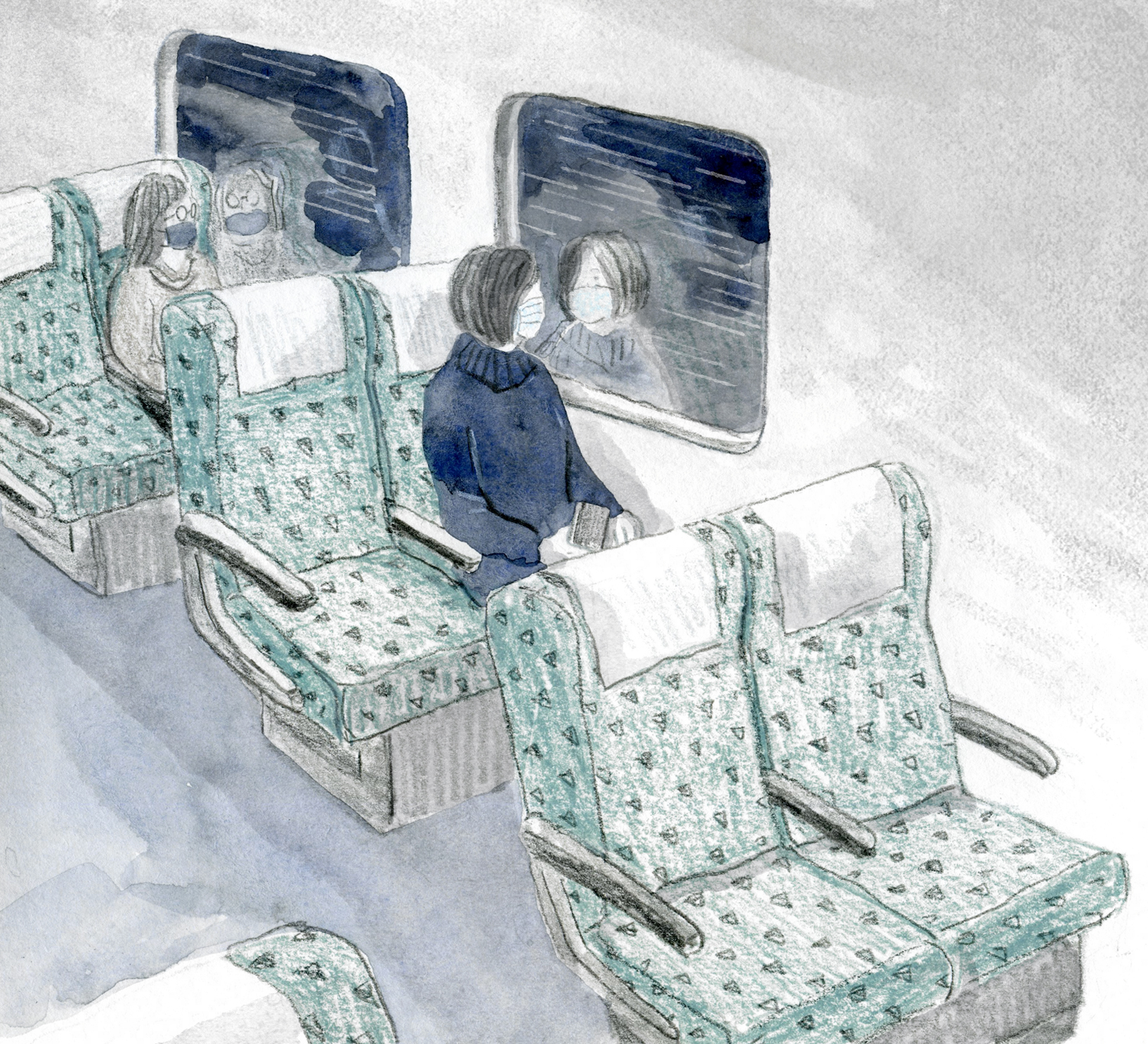
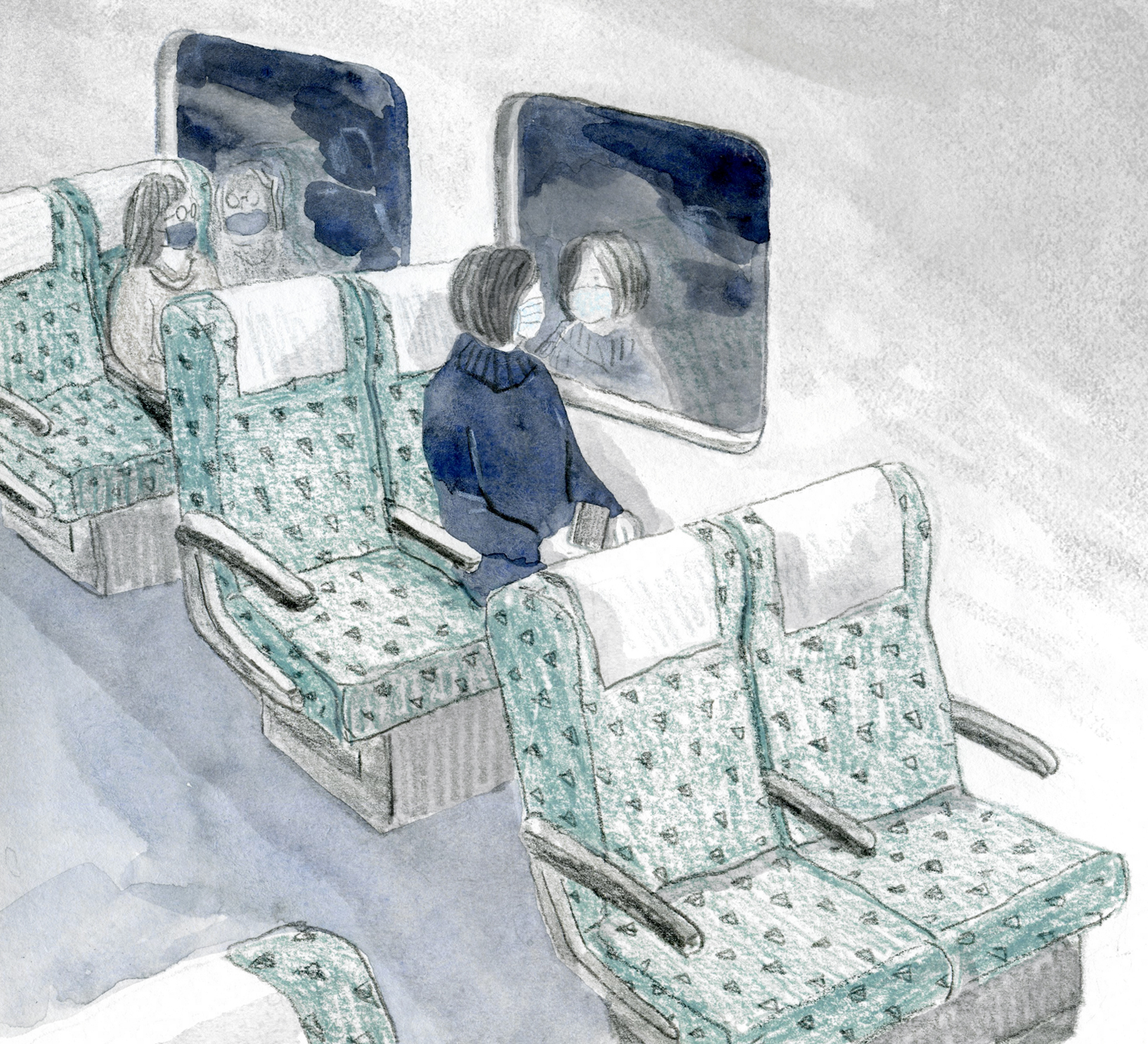
mobile

diff --git a/src/Story/mobile.less b/src/Story/mobile.less
@@ -128,6 +128,51 @@
 				transform: scale(0.82);
 
 				@img: './img/mobile/bg2.jpg';
+
+				@keyframes hightSpeed {
+					0% {
+						opacity: 0;
+					}
+
+					45% {
+						opacity: 0;
+					}
+					50% {
+						opacity: 1;
+					}
+					51% {
+						opacity: 0;
+					}
+
+					60% {
+						opacity: 0;
+					}
+					65% {
+						opacity: 1;
+					}
+					70% {
+						opacity: 0;
+					}
+
+					95% {
+						opacity: 0;
+					}
+					100% {
+						opacity: 1;
+					}
+				}
+
+				.speed {
+					position: absolute;
+					@img: './img/mobile/speed.png';
+					background-image: url(@img);
+					width: image-width(@img);
+					height: image-height(@img);
+					top: 5.4%;
+					left: 14.2%;
+
+					animation: hightSpeed 4s linear infinite;
+				}
 			}
 		}
 	}
@@ -155,6 +200,28 @@
 				transform: scale(0.82);
 
 				@img: './img/mobile/bg1.jpg';
+
+				@keyframes rain {
+					0% {
+						background-position-y: 0px;
+					}
+					100% {
+						background-position-y: 5000px;
+					}
+				}
+
+				.rain {
+					position: absolute;
+					@img: './img/mobile/rain.png';
+					background-image: url(@img);
+					width: image-width(@img);
+					height: image-height(@img);
+
+					right: 2%;
+					top: 0.4%;
+
+					animation: rain 2s steps(5) infinite;
+				}
 			}
 		}
 	}
@@ -198,8 +265,32 @@
 
 				@img: './img/mobile/bg0.jpg';
 
-				& > div {
+				@keyframes tears {
+					0% {
+						opacity: 0;
+						transform: translateY(-30px);
+					}
+					60% {
+						opacity: 1;
+						transform: translateY(0px);
+					}
+					100% {
+						opacity: 0;
+						transform: translateY(10px);
+					}
+				}
+
+				.tears {
 					position: absolute;
+					@img: './img/mobile/tears.png';
+					background-image: url(@img);
+					width: image-width(@img);
+					height: image-height(@img);
+					left: 17%;
+					top: 54.8%;
+					opacity: 0;
+
+					animation: tears 3s ease-out infinite;
 				}
 			}
 		}

diff --git a/src/Story/mobile/animation0.js b/src/Story/mobile/animation0.js
@@ -37,7 +37,7 @@ export default class Animation0 {
 				const dom = page.current;
 				const from = { opacity: 1 };
 				const to = { opacity: 0 };
-				const duration = 2000;
+				const duration = 1000;
 				dom.style.opacity = 1;
 				new Tweener({
 					from,
@@ -57,17 +57,11 @@ export default class Animation0 {
 			},
 			bg: {
 				delay: 0,
-				property: { opacity: 0, left: -200 },
+				property: { opacity: 0, left: -300 },
 				unit: { opacity: '', left: 'px' },
 				init() {
 					this.c = bg.current;
-					this.duration =
-						root.tr.labels.delay +
-						root.tr.labels.fadeOutDelay +
-						4000 +
-						[...labels.current.children]
-							.map((dom) => parseInt(dom.dataset.delay))
-							.reduce((duration, delay) => duration + delay);
+					this.duration = root.totalTime * 1000 + 1000;
 					this.tran();
 				},
 				in() {

diff --git a/src/Story/mobile/page2.js b/src/Story/mobile/page2.js
@@ -11,13 +11,12 @@ const Page2 = (props) => {
 	const animation = useRef();
 	const page = useRef();
 	const bg = useRef();
-	const cloud = useRef();
-	const white = useRef();
+
 	const img = useRef();
 	const labels = useRef();
 
 	useEffect(() => {
-		animation.current = new Animation({ page, bg, cloud, labels, white }, () => {
+		animation.current = new Animation({ page, bg, labels }, () => {
 			setState('page3');
 		});
 
@@ -46,11 +45,9 @@ const Page2 = (props) => {
 
 	return (
 		<div ref={page} className='page page2'>
-			<div ref={white} className='white-color' />
 			<div ref={bg} className='bg'>
 				<div ref={img} className='img'>
-					<div ref={cloud} className='cloud' />
-					<div className='wheel' />
+					<div className='speed' />
 				</div>
 			</div>
 			<div ref={labels} className='labels'>

diff --git a/src/Story/mobile/animation1.js b/src/Story/mobile/animation1.js
@@ -35,7 +35,7 @@ export default class Animation1 {
 				const dom = page.current;
 				const from = { opacity: 1 };
 				const to = { opacity: 0 };
-				const duration = 2000;
+				const duration = 1000;
 				dom.style.opacity = 1;
 				new Tweener({
 					from,
@@ -59,12 +59,7 @@ export default class Animation1 {
 				unit: { opacity: '', left: 'px' },
 				init() {
 					this.c = bg.current;
-					this.duration =
-						root.tr.labels.delay +
-						root.tr.labels.fadeOutDelay +
-						[...labels.current.children]
-							.map((dom) => parseInt(dom.dataset.delay))
-							.reduce((duration, delay) => duration + delay);
+					this.duration = root.totalTime * 1000 + 1000;
 					this.tran();
 				},
 				in() {

diff --git a/src/Story/mobile/animation2.js b/src/Story/mobile/animation2.js
@@ -35,7 +35,7 @@ export default class Animation2 {
 				const dom = page.current;
 				const from = { opacity: 1 };
 				const to = { opacity: 0 };
-				const duration = 2000;
+				const duration = 1000;
 				dom.style.opacity = 1;
 				new Tweener({
 					from,
@@ -59,11 +59,7 @@ export default class Animation2 {
 				unit: { opacity: '', left: 'px' },
 				init() {
 					this.c = bg.current;
-					this.duration =
-						root.tr.labels.delay +
-						[...labels.current.children]
-							.map((dom) => parseInt(dom.dataset.delay))
-							.reduce((duration, delay) => duration + delay);
+					this.duration = root.totalTime * 1000 + 1000;
 					this.tran();
 				},
 				in() {

diff --git a/src/Story/mobile/page3.js b/src/Story/mobile/page3.js
@@ -43,7 +43,7 @@ const Page3 = (props) => {
 					<Label key={e.text} data={e} />
 				))}
 			</div>
-			<div
+			{/* <div
 				style={{
 					position: 'absolute',
 					width: '2px',
@@ -51,7 +51,7 @@ const Page3 = (props) => {
 					height: '100%',
 					left: '50%',
 				}}
-			/>
+			/> */}
 		</div>
 	);
 };

diff --git a/src/Story/mobile/page1.js b/src/Story/mobile/page1.js
@@ -46,7 +46,7 @@ const Page1 = (props) => {
 		<div ref={page} className='page page1'>
 			<div ref={bg} className='bg'>
 				<div ref={img} className='img'>
-					<div />
+					<div className='rain' />
 				</div>
 			</div>
 			<div ref={labels} className='labels'>

diff --git a/src/Story/mobile/page0.js b/src/Story/mobile/page0.js
@@ -47,7 +47,7 @@ const Page0 = (props) => {
 		<div ref={page} className='page page0'>
 			<div ref={bg} className='bg'>
 				<div ref={img} className='img'>
-					<div />
+					<div className='tears' />
 				</div>
 			</div>
 			<div ref={title} className='title'>

diff --git a/src/Story/mobile.js b/src/Story/mobile.js
@@ -33,7 +33,7 @@ const Mobile = (props) => {
 				setLoading(false);
 				colorBackgroundRef.current.classList.add('fadein');
 
-				const pageKey = 'page0';
+				const pageKey = 'page2';
 				setState(pageKey);
 
 				const beginDuration = Object.entries(timer)
